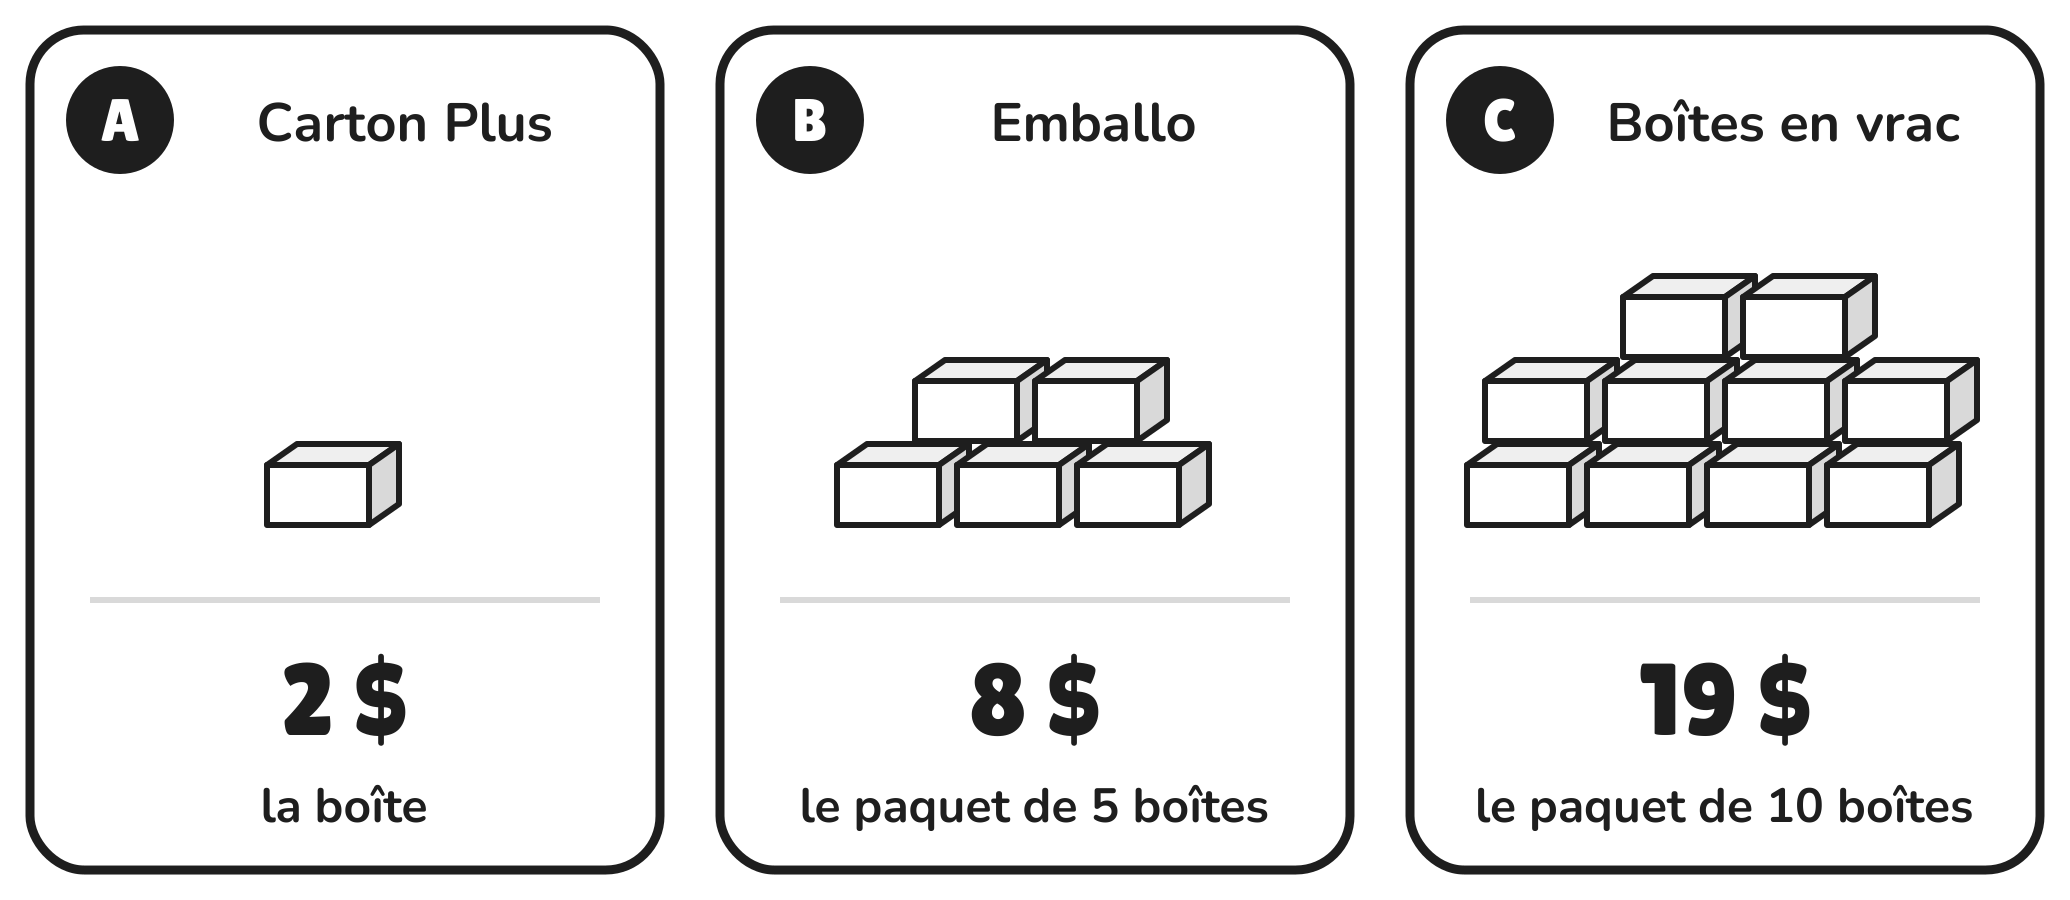
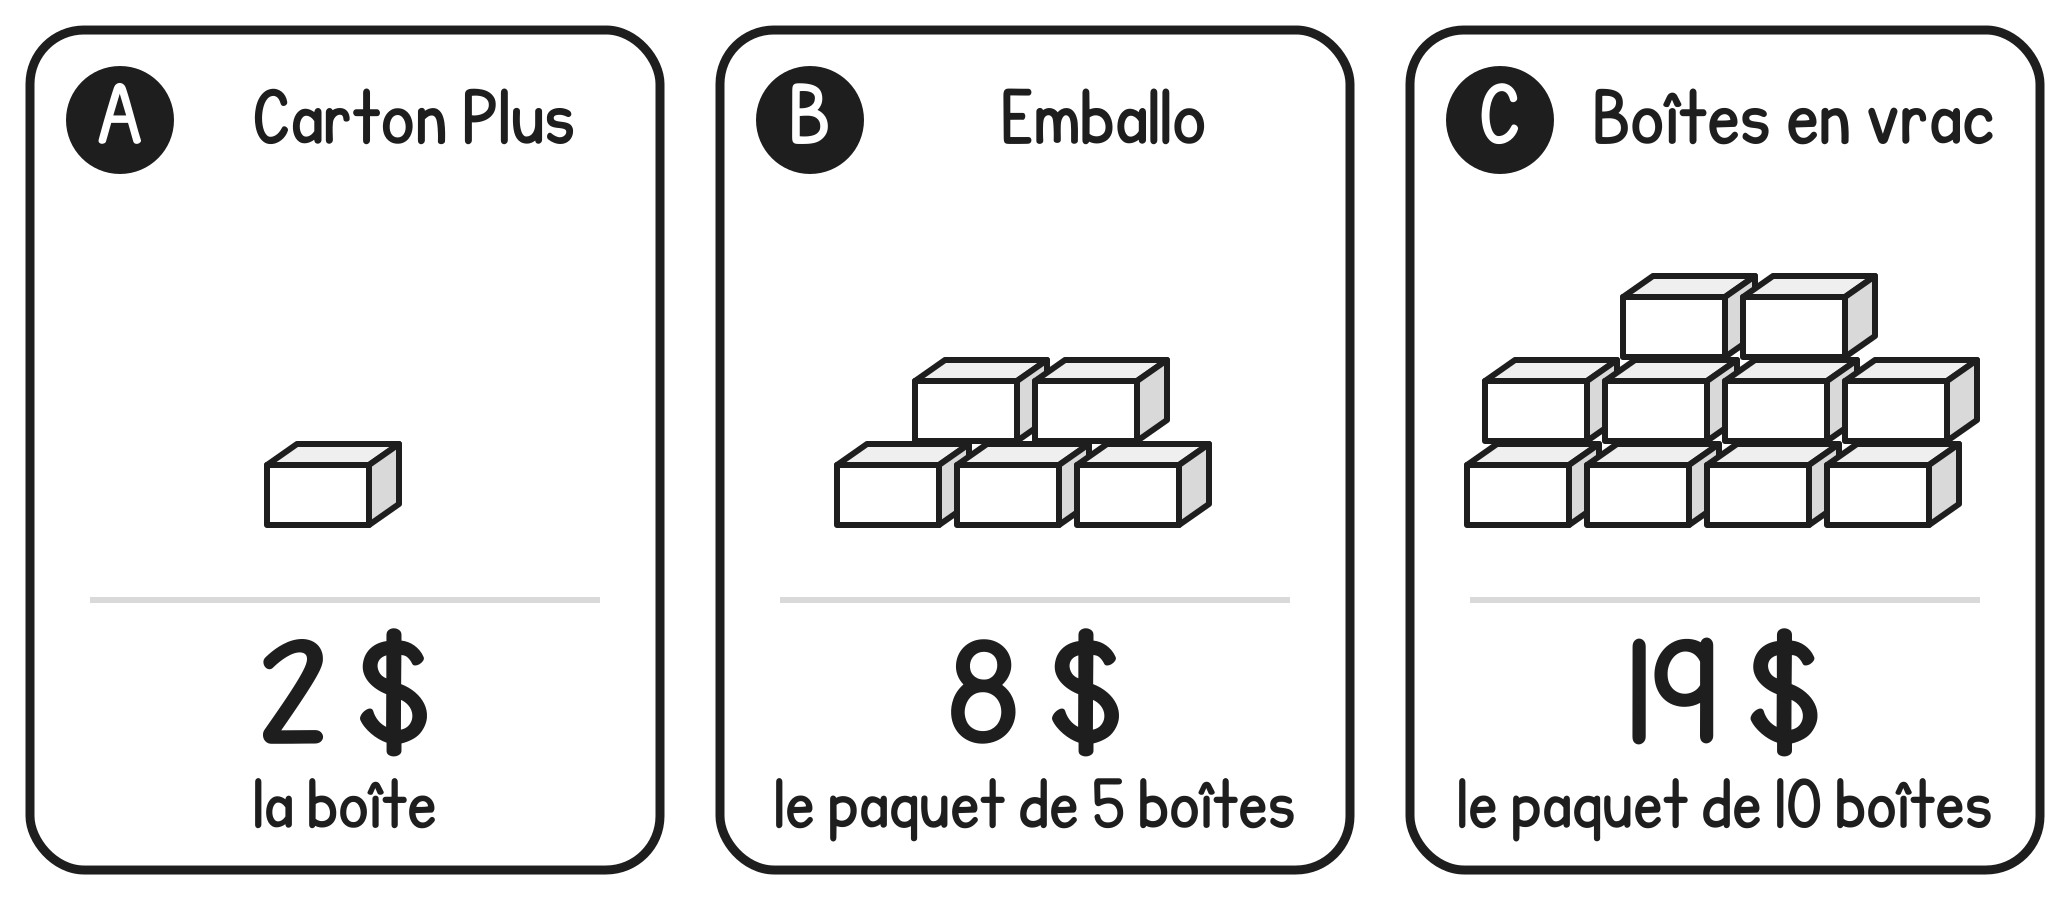
Dessins du résoudre en KG Perfect Penmanship; ruban et étiquettes modifiés
Claude-Session: https://claude.ai/code/session_01NiTaWGpjQjB6yeVp3yNw7H

diff --git a/ressources/resoudre-paniers-guignolee-4e-annee/dessins/dessins.py b/ressources/resoudre-paniers-guignolee-4e-annee/dessins/dessins.py
@@ -88,51 +88,44 @@ def fournisseurs():
     for i, (let, nom, n, cols, prix, unite) in enumerate(cartes):
         x = 10 + i * (cw + 20)
         b += f"<rect x='{x}' y='10' width='{cw}' height='280' rx='18' fill='#fff' stroke='{INK}' stroke-width='3'/>"
-        b += f"<circle cx='{x+30}' cy='40' r='18' fill='{INK}'/>" + txt(x + 30, 47, let, 20, font=T, fill='#fff')
-        b += txt(x + cw / 2 + 20, 47, nom, 18, weight=800)
+        b += f"<circle cx='{x+30}' cy='40' r='18' fill='{INK}'/>" + txt(x + 30, 48, let, 22, font=KG, fill='#fff')
+        b += txt(x + 128, 48, nom, 20, font=KG)
         b += pile(x + cw / 2, 175, n, cols)
         b += f"<line x1='{x+20}' y1='200' x2='{x+cw-20}' y2='200' stroke='{GRIS}' stroke-width='2'/>"
-        b += txt(x + cw / 2, 245, prix, 34, font=T)
-        b += txt(x + cw / 2, 274, unite, 16, weight=700)
+        b += txt(x + cw / 2, 248, prix, 38, font=KG)
+        b += txt(x + cw / 2, 276, unite, 18, font=KG)
     save('fournisseurs-boites', W, H, b)
 
 
 # ---------- 3. Le ruban ----------
 def ruban():
-    W, H = 640, 330
+    W, H = 640, 290
+    RUB = f"fill='none' stroke='{INK}' stroke-width='7' stroke-linecap='round' stroke-linejoin='round'"
     # dessus de la boîte vu de haut (rectangle 30 cm x 20 cm), à l'échelle
     k = 8
     x, y = 90, 70
     w, h = 30 * k, 20 * k
-    b = txt(x + w / 2, 40, 'Le dessus de la boîte', 18, weight=800)
-    b += f"<rect x='{x}' y='{y}' width='{w}' height='{h}' fill='{GRIS_PALE}' stroke='{INK}' stroke-width='3'/>"
-    # ruban qui fait le tour du dessus (en pointillé gras sur le contour)
-    b += f"<rect x='{x}' y='{y}' width='{w}' height='{h}' fill='none' stroke='{INK}' stroke-width='7' stroke-dasharray='14 8'/>"
-    # boucle
+    b = txt(x + w / 2, 42, 'Taille de la boîte', 22, font=KG)
+    b += f"<rect x='{x}' y='{y}' width='{w}' height='{h}' fill='{GRIS_PALE}' stroke='none'/>"
+    # ruban qui fait le tour du dessus : même ligne noire épaisse que la boucle
+    b += f"<rect x='{x}' y='{y}' width='{w}' height='{h}' {RUB}/>"
     bx, by = x + w, y
-    b += (f"<path d='M{bx} {by} c 30 -40 70 -20 40 10 c -20 18 -40 0 -40 -10 c -10 -30 30 -60 46 -30' "
-          f"fill='none' stroke='{INK}' stroke-width='5' stroke-linecap='round'/>")
-    b += txt(x + w / 2, y + h + 34, '30 cm', 18, weight=800)
-    b += txt(x - 14, y + h / 2 + 6, '20 cm', 18, 'end', weight=800)
+    b += f"<path d='M{bx} {by} c 30 -40 70 -20 40 10 c -20 18 -40 0 -40 -10 c -10 -30 30 -60 46 -30' {RUB}/>"
+    b += txt(x + w / 2, y + h + 36, '30 cm', 21, font=KG)
+    b += txt(x - 14, y + h / 2 + 7, '20 cm', 21, 'end', font=KG)
     # légende
     lx = 400
-    b += f"<line x1='{lx}' y1='120' x2='{lx+44}' y2='120' stroke='{INK}' stroke-width='7' stroke-dasharray='14 8'/>"
-    b += txt(lx + 56, 126, 'le ruban fait', 17, 'start', 700) + txt(lx + 56, 148, 'le tour du dessus', 17, 'start', 700)
-    b += (f"<path d='M{lx+4} 196 c 18 -24 42 -12 24 6 c -12 11 -24 0 -24 -6' fill='none' stroke='{INK}' "
-          f"stroke-width='4' stroke-linecap='round'/>")
-    b += txt(lx + 56, 194, '+ 50 cm pour', 17, 'start', 700) + txt(lx + 56, 216, 'faire la boucle', 17, 'start', 700)
-    # rouleau
-    rx, ry = 420, 262
-    b += f"<ellipse cx='{rx}' cy='{ry}' rx='16' ry='30' fill='{GRIS}' stroke='{INK}' stroke-width='3'/>"
-    b += f"<ellipse cx='{rx}' cy='{ry}' rx='6' ry='11' fill='#fff' stroke='{INK}' stroke-width='2'/>"
-    b += txt(rx + 34, ry - 4, 'Rouleau de 5 m', 18, 'start', 800) + txt(rx + 34, ry + 24, '3 $', 22, 'start', font=T)
+    b += f"<line x1='{lx}' y1='122' x2='{lx+44}' y2='122' {RUB}/>"
+    b += txt(lx + 58, 120, 'le ruban fait', 20, 'start', font=KG) + txt(lx + 58, 145, 'le tour du dessus', 20, 'start', font=KG)
+    b += f"<path d='M{lx+6} 200 c 18 -24 42 -12 24 6 c -12 11 -24 0 -24 -6' {RUB}/>"
+    b += txt(lx + 58, 196, '+ 50 cm pour', 20, 'start', font=KG) + txt(lx + 58, 221, 'faire la boucle', 20, 'start', font=KG)
     save('ruban', W, H, b)
 
 
 # ---------- 4. Les étiquettes ----------
 def etiquettes():
     u = 18                      # 1 unité de la grille
-    W, H = 700, 280
+    W, H = 700, 235
     fig = [  # (numéro, sommets en unités, prix)
         ('1', [(0, 0), (4, 0), (4, 4), (0, 4)], '3 $'),                 # carré
         ('2', [(0, 0), (6, 0), (6, 3), (0, 3)], '2 $'),                 # rectangle
@@ -141,10 +134,10 @@ def etiquettes():
         ('5', [(1, 0), (4, 0), (6, 4), (0, 4)], '3 $'),                 # trapèze
     ]
     b = ''
-    zones = [(7 + i * 140, 20) for i in range(5)]
+    zones = [(7 + i * 140, 0) for i in range(5)]
     for (num, pts, prix), (zx, zy) in zip(fig, zones):
         gw, gh = 7, 7
-        ox, oy = zx, zy + 30
+        ox, oy = zx, zy + 8
         for i in range(gw + 1):
             for j in range(gh + 1):
                 b += f"<circle cx='{ox+i*u}' cy='{oy+j*u}' r='1.6' fill='#9A9A9A'/>"
@@ -154,10 +147,9 @@ def etiquettes():
         b += f"<path d='{d}' fill='{GRIS_PALE}' stroke='{INK}' stroke-width='3' stroke-linejoin='round'/>"
         cx = ox + (sum(p[0] for p in pts) / len(pts) + dx) * u
         cy = oy + (sum(p[1] for p in pts) / len(pts) + dy) * u
-        b += f"<circle cx='{cx}' cy='{cy}' r='5' fill='#fff' stroke='{INK}' stroke-width='2'/>"   # trou de l'étiquette
-        b += f"<circle cx='{zx+gw*u/2}' cy='{zy+8}' r='15' fill='{INK}'/>" + txt(zx + gw * u / 2, zy + 15, num, 18, font=T, fill='#fff')
-        b += txt(zx + gw * u / 2, oy + gh * u + 40, prix, 28, font=T)
-        b += txt(zx + gw * u / 2, oy + gh * u + 62, 'le paquet de 6', 14, weight=700)
+        b += txt(cx, cy + 10, num, 28, font=KG)                         # numéro de l'étiquette
+        b += txt(zx + gw * u / 2, oy + gh * u + 42, prix, 32, font=KG)
+        b += txt(zx + gw * u / 2, oy + gh * u + 66, 'le paquet de 6', 17, font=KG)
     save('etiquettes', W, H, b)
 
 
